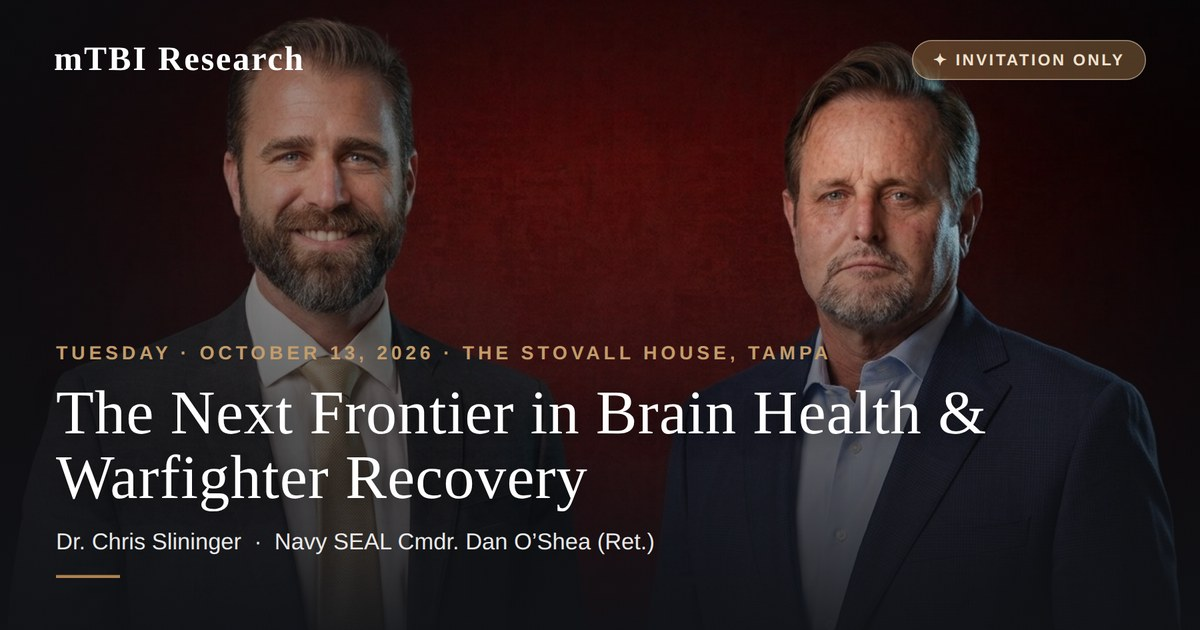
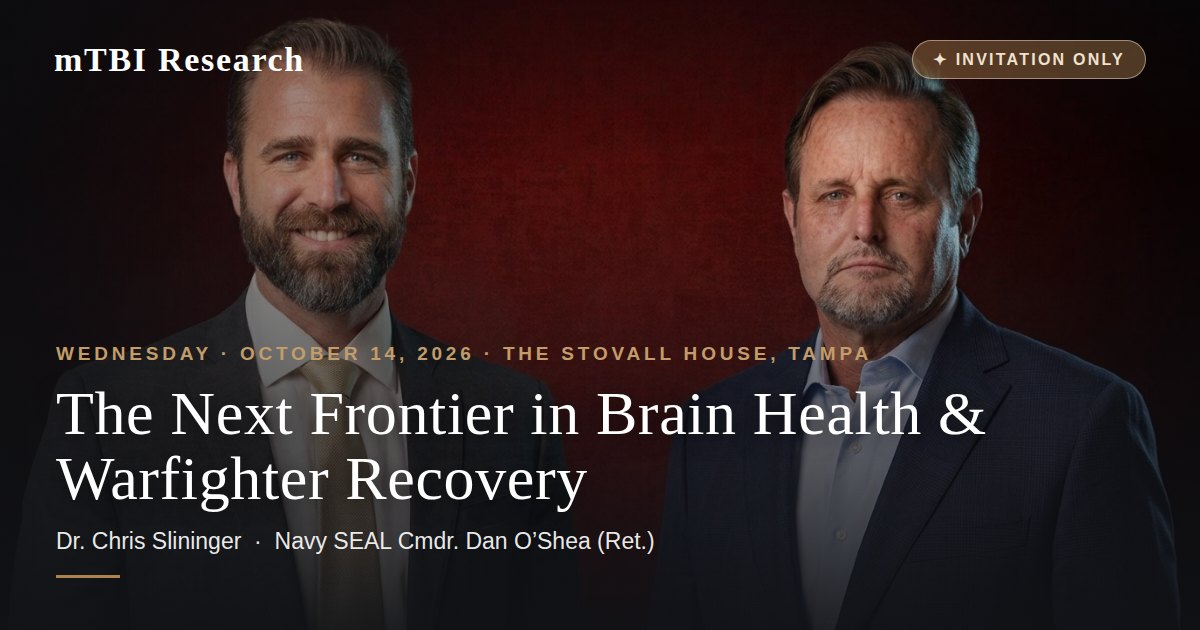
Dates

diff --git a/src/content/events.ts b/src/content/events.ts
@@ -30,10 +30,10 @@ export interface EventItem {
   startISO: string
   endISO: string
   /** Display strings. */
-  dateLong: string // "Tuesday, October 13, 2026"
-  dateShort: string // "Oct 13, 2026"
+  dateLong: string // "Wednesday, October 14, 2026"
+  dateShort: string // "Oct 14, 2026"
   month: string // "Oct"
-  day: string // "13"
+  day: string // "14"
   year: string // "2026"
   timeLine: string // "6:00–7:00 PM · networking to 8:30"
   timeDetail: string // "6:00–7:00 PM talk\nNetworking 7:00–8:30 PM"
@@ -67,7 +67,7 @@ export const EVENTS: EventItem[] = [
     dateLong: 'Wednesday, October 14, 2026',
     dateShort: 'Oct 14, 2026',
     month: 'Oct',
-    day: '13',
+    day: '14',
     year: '2026',
     timeLine: '6:00–7:00 PM · networking to 8:30',
     timeDetail: '6:00–7:00 PM talk · Networking 7:00–8:30 PM',
